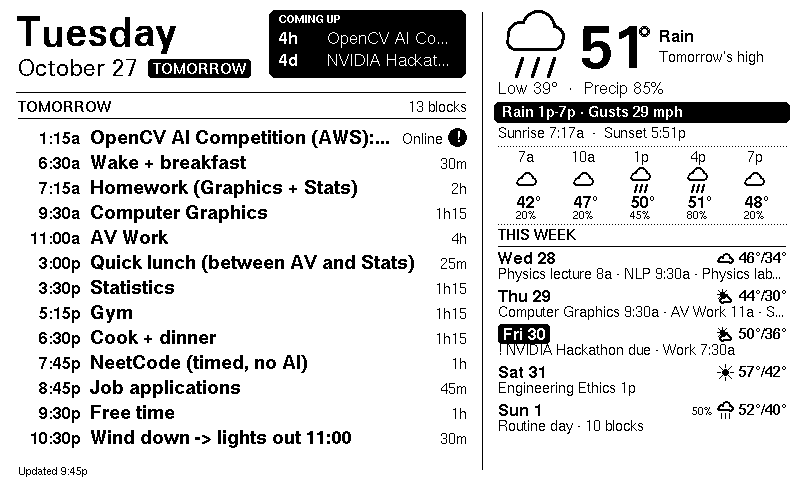
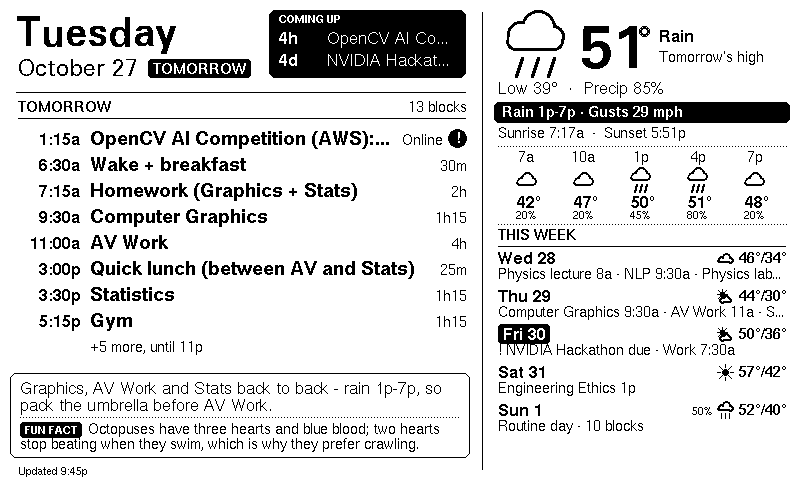
Add Gemini daily brief and fun fact to the dashboard
The Apps Script backend now asks Gemini for a short brief of the day
(tomorrow after 9:30 PM) and a daily fun fact, cached on the day's
contents so it only runs when the calendar or forecast changes. The
API key lives in Script properties (GEMINI_API_KEY); without it the
payload has no "ai" field and the display is unchanged.

The firmware draws both in a box at the bottom of the agenda column,
with word-wrapping, and the agenda shrinks to make room.

Tests mock Gemini, PropertiesService and CacheService; the preview
build enables U8G2_USE_LARGE_FONTS so the CJK fonts link on macOS.

diff --git a/tools/test_backend.js b/tools/test_backend.js
@@ -79,9 +79,26 @@ const events = fixture.events.map(([date, s, e, title, color, recurring, loc]) =
 });
 
 let weatherJson = fixture.weather;
+const props = { GEMINI_API_KEY: 'test-key' };
+const cacheStore = {};
+let geminiCalls = 0, lastPrompt = '';
+const geminiReply = {
+  summary: 'Graphics, AV Work and Stats back to back - rain 1p-7p, so pack the umbrella before AV Work.',
+  fact: 'Octopuses have three hearts and blue blood; two hearts stop beating when they swim, which is why they prefer crawling.',
+};
 const ctx = {
   console,
-  Utilities: { formatDate, parseDate },
+  Utilities: {
+    formatDate, parseDate,
+    DigestAlgorithm: { MD5: 'md5' }, Charset: { UTF_8: 'utf8' },
+    computeDigest: (alg, s) => [...require('crypto').createHash(alg).update(s, 'utf8').digest()].map(b => b > 127 ? b - 256 : b),
+  },
+  PropertiesService: {
+    getScriptProperties: () => ({ getProperty: k => (k in props ? props[k] : null), setProperty: (k, v) => { props[k] = v; } }),
+  },
+  CacheService: {
+    getScriptCache: () => ({ get: k => cacheStore[k] || null, put: (k, v) => { cacheStore[k] = v; } }),
+  },
   Session: { getScriptTimeZone: () => TZ },
   CalendarApp: {
     GuestStatus: { NO: 'NO', YES: 'YES', OWNER: 'OWNER' },
@@ -91,7 +108,16 @@ const ctx = {
     getCalendarById: () => null,
   },
   UrlFetchApp: {
-    fetch: () => ({ getResponseCode: () => 200, getContentText: () => JSON.stringify(weatherJson) }),
+    fetch: (url, opt) => {
+      if (url.includes('generativelanguage')) {
+        geminiCalls++;
+        assert.strictEqual(opt.headers['x-goog-api-key'], 'test-key');
+        lastPrompt = JSON.parse(opt.payload).contents[0].parts[0].text;
+        const body = { candidates: [{ content: { parts: [{ text: JSON.stringify(geminiReply) }] } }] };
+        return { getResponseCode: () => 200, getContentText: () => JSON.stringify(body) };
+      }
+      return { getResponseCode: () => 200, getContentText: () => JSON.stringify(weatherJson) };
+    },
   },
   ContentService: {
     MimeType: { JSON: 'json' },
@@ -119,6 +145,20 @@ const payload = api.buildPayload_(now);
 const json = JSON.stringify(payload);
 fs.writeFileSync(outPath, json);
 
+// AI brief: one Gemini call, then served from cache; fact sticks for the day
+assert.strictEqual(geminiCalls, 1);
+assert.ok(payload.ai && payload.ai.s && payload.ai.f, 'ai present');
+assert.ok(lastPrompt.includes('Schedule:'), 'prompt has schedule');
+const again = api.buildPayload_(now);
+assert.strictEqual(geminiCalls, 1, 'cached');
+assert.deepStrictEqual(again.ai, payload.ai);
+delete props.GEMINI_API_KEY;
+assert.strictEqual(api.buildPayload_(now).ai, null, 'no key -> no ai');
+props.GEMINI_API_KEY = 'test-key';
+assert.strictEqual(api.hm_(570), '9:30a');
+assert.strictEqual(api.hm_(780), '1p');
+assert.strictEqual(api.hm_(0), '12a');
+
 // sanity checks on the real-calendar fixture
 const d0 = payload.days[0];
 assert.strictEqual(payload.days.length, 7);
@@ -128,6 +168,8 @@ for (const d of payload.days) {
 }
 console.log(`now=${nowIso} bytes=${json.length} today=${d0.date} (${d0.dl}) events/day=${payload.days.map(d => d.ev.length).join(',')}`);
 console.log('keys:', JSON.stringify(payload.keys));
+console.log('ai:', JSON.stringify(payload.ai));
+console.log('prompt:\n' + lastPrompt);
 console.log('notes:', payload.days.map(d => `${d.dow}: ${d.w && d.w.n}`).join(' | '));
 console.log('week anchors:', payload.days.slice(1).map(d => d.dow + '=' + d.ev.filter(e => e.k > 0).map(e => e.t).concat(d.ad.map(a => '[' + a.t + ']')).join('; ')).join(' | '));
 const sun = payload.days.find(d => d.date === '2026-11-01');

diff --git a/firmware/eink_dashboard/render.cpp b/firmware/eink_dashboard/render.cpp
@@ -82,6 +82,41 @@ const char* fit(const char* s, int maxW, char* buf, size_t cap) {
   return buf;
 }
 
+// Word-wrap `s` into at most maxLines lines in the current font. The first line
+// may be narrower (room for a tag). The last line ends in "..." if text is left over.
+const int WRAP_CAP = 160;
+int wrap(const char* s, int firstW, int restW, int maxLines, char out[][WRAP_CAP]) {
+  int n = 0;
+  char tmp[WRAP_CAP];
+  while (*s && n < maxLines) {
+    while (*s == ' ') s++;
+    if (!*s) break;
+    int maxW = n == 0 ? firstW : restW;
+    size_t len = strlen(s);
+    size_t best = 0;                                               // longest prefix ending at a space
+    if (n < maxLines - 1 && !(len < WRAP_CAP && tw(s) <= maxW)) {
+      for (size_t i = 1; i <= len && i < WRAP_CAP; i++) {
+        if (s[i] != ' ' && s[i] != 0) continue;
+        memcpy(tmp, s, i);
+        tmp[i] = 0;
+        if (tw(tmp) > maxW) break;
+        best = i;
+      }
+    }
+    if (!best) {                       // last line, the rest fits, or one huge word: fit + "..."
+      snprintf(tmp, sizeof(tmp), "%s", s);
+      const char* f = fit(tmp, maxW, out[n], WRAP_CAP);
+      if (f != out[n]) snprintf(out[n], WRAP_CAP, "%s", f);
+      n++;
+      break;
+    }
+    memcpy(out[n], s, best);
+    out[n++][best] = 0;
+    s += best;
+  }
+  return n;
+}
+
 // "NVIDIA Hackathon: SUBMISSION DEADLINE" -> "NVIDIA Hackathon" (for tight spots)
 void keyShort(const char* in, char* out, size_t cap) {
   static const char* cut[] = {"submission", "deadline", " due"};
@@ -679,6 +714,38 @@ void drawWeek(const Dashboard& d, int fromIdx, int x0, int y0, int x1, int y1) {
   }
 }
 
+// Gemini's brief of the day + a fun fact, in a box anchored to y1 (its bottom).
+// Returns the box's top so the agenda can stop above it, or y1 if there's nothing to show.
+int drawBrief(const Dashboard& d, int x0, int x1, int y1) {
+  static char sum[2][WRAP_CAP], fact[3][WRAP_CAP];
+  const int PAD = 10, SUM_LH = 17, FACT_LH = 15;
+  int inner = x1 - x0 - 2 * PAD;
+
+  font(hasCJK(d.aiSummary) ? F_CJK : F_MED);
+  int ns = d.aiSummary[0] ? wrap(d.aiSummary, inner, inner, 2, sum) : 0;
+  font(F_TINY_B);
+  int tagW = tw("FUN FACT") + 10 + 6;
+  smallFont(d.aiFact);
+  int nf = d.aiFact[0] ? wrap(d.aiFact, inner - tagW, inner, ns ? 2 : 3, fact) : 0;
+  if (!ns && !nf) return y1;
+
+  int h = 8 + ns * SUM_LH + (ns && nf ? 8 : 0) + nf * FACT_LH + 5;
+  int top = y1 - h;
+  G->drawRoundRect(x0, top, x1 - x0, h, 6, INK);
+
+  int y = top + 8;
+  font(hasCJK(d.aiSummary) ? F_CJK : F_MED);
+  for (int i = 0; i < ns; i++, y += SUM_LH) txt(x0 + PAD, y + 13, sum[i]);
+  if (ns && nf) { dottedH(x0 + PAD, x1 - PAD, y + 2); y += 8; }
+  for (int i = 0; i < nf; i++, y += FACT_LH) {
+    int x = x0 + PAD;
+    if (i == 0) x += tag(x, y + 11, "FUN FACT", F_TINY_B) + 6;
+    smallFont(d.aiFact);
+    txt(x, y + 11, fact[i]);
+  }
+  return top;
+}
+
 }  // namespace
 
 /* ------------------------------ public ------------------------------ */
@@ -721,7 +788,9 @@ void renderDashboard(Adafruit_GFX& gfx, U8G2_FOR_ADAFRUIT_GFX& u8, const Dashboa
   // left: header + agenda
   drawHeader(d, mainDay, tomorrow, now);
   G->drawFastHLine(LCOL_X0 - 2, 92, LCOL_X1 - LCOL_X0 + 2, INK);
-  drawAgenda(mainDay, tomorrow ? -1 : now.minutes, tomorrow, LCOL_X0, 100, LCOL_X1, 458);
+  int briefTop = drawBrief(d, LCOL_X0 - 8, LCOL_X1 + 4, 458);
+  drawAgenda(mainDay, tomorrow ? -1 : now.minutes, tomorrow, LCOL_X0, 100, LCOL_X1,
+             briefTop < 458 ? briefTop - 6 : 458);
 
   // divider
   G->drawFastVLine(DIV_X, 12, 458, INK);

diff --git a/firmware/eink_dashboard/model.cpp b/firmware/eink_dashboard/model.cpp
@@ -109,6 +109,9 @@ bool parseDashboard(const char* json, size_t len, Dashboard& d) {
     copyUtf8(k.title, sizeof(k.title), jk["t"] | "");
   }
 
+  copyUtf8(d.aiSummary, sizeof(d.aiSummary), doc["ai"]["s"] | "");
+  copyUtf8(d.aiFact, sizeof(d.aiFact), doc["ai"]["f"] | "");
+
   if (d.nDays == 0) {
     copyUtf8(d.error, sizeof(d.error), "no days in payload");
     return false;

diff --git a/firmware/eink_dashboard/model.h b/firmware/eink_dashboard/model.h
@@ -78,6 +78,8 @@ struct Dashboard {
   Day days[MAX_DAYS];
   uint8_t nKeys;
   KeyItem keys[MAX_KEYS];
+  char aiSummary[200];          // Gemini's brief of the day ("" = no AI box)
+  char aiFact[240];             // fun fact of the day
   char error[64];
 };
 

diff --git a/README.md b/README.md
@@ -2,7 +2,7 @@
 
 Waveshare 7.5" e-Paper V2 (800×480) + Waveshare e-Paper ESP32 Driver Board.
 Shows today's time blocks, a countdown to deadlines, the weather that matters when you walk
-everywhere, and the week ahead — pulled from **jihbin.luo@gmail.com**. Read it instead of your phone.
+everywhere, the week ahead, and a Gemini-written brief of the day with a fun fact — pulled from **jihbin.luo@gmail.com**. Read it instead of your phone.
 
 ```
 ┌──────────────── left: TODAY ────────────────┬──────── right ─────────┐
@@ -15,6 +15,9 @@ everywhere, and the week ahead — pulled from **jihbin.luo@gmail.com**. Read it
 │ ▶  9:30a Computer Graphics          1h15     │ Wed 28   ☁ 46°/34°      │
 │   11:00a AV Work                       4h    │  Physics 8a · NLP 9:30a │
 │   ...                                        │ [Fri 30] ! NVIDIA due   │
+│ ╭ Graphics, AV Work, Stats back to back -  ╮ │                         │
+│ │ rain 1p-7p, pack the umbrella.           │ │                         │
+│ ╰ [FUN FACT] Octopuses have three hearts...╯ │                         │
 └──────────────────────────────────────────────┴─────────────────────────┘
 ```
 
@@ -22,7 +25,8 @@ everywhere, and the week ahead — pulled from **jihbin.luo@gmail.com**. Read it
 
 ```
 ESP32 wakes ──WiFi──► Apps Script web app (runs as you) ──► Google Calendar
-   │                          └──────────────────────────► Open-Meteo (weather, no key)
+   │                          ├──────────────────────────► Open-Meteo (weather, no key)
+   │                          └──────────────────────────► Gemini (brief + fun fact, cached)
    │◄──────── ~7 KB JSON ─────┘
    └─ draws, saves a copy to flash, deep-sleeps until the next :00 / :30
 ```
@@ -39,6 +43,10 @@ windows, deadline detection), so the firmware only draws.
 - **THIS WEEK** shows only anchors (classes = Blueberry color, Work / AV Work, one-off events,
   all-day events, deadlines) so the daily routine doesn't drown it. Days with a deadline get an inverted label.
 - Weather note bar only appears when it matters: rain/snow windows during 7a–10p, gusts ≥ 25 mph, feels-like ≤ 32°F.
+- **Brief + fun fact** box at the bottom of the agenda, written by Gemini: a one/two-sentence heads-up
+  about the day (tomorrow after 9:30 PM) and a fun fact that changes daily and doesn't repeat for 20 days.
+  Gemini only runs when the day's calendar/forecast changes (cached), so it's a few calls a day — free tier
+  is plenty. No API key, or Gemini down → the box disappears and the agenda gets the room back.
 - No WiFi? It redraws from the last good copy with an **Offline** tag and retries in 10 min.
 - Press **RST** on the board to force a refresh.
 - Spanish accents and GB2312 Chinese render; emoji in titles are stripped.
@@ -63,6 +71,10 @@ windows, deadline detection), so the firmware only draws.
 6. *Deploy → New deployment → Web app*: **Execute as: Me**, **Who has access: Anyone** → Deploy.
    Copy the `/exec` URL.
 7. Test in a browser: `<exec URL>?token=<your token>` should return JSON starting with `{"ok":true`.
+
+8. **Gemini (optional):** get a free API key at aistudio.google.com → *Get API key*. In Apps Script,
+   *Project Settings → Script properties → Add*: `GEMINI_API_KEY` = your key. Run `testAi` from the
+   editor to check the log shows a brief and a fact. (The key stays in Google; it's never on the board.)
 
 When you edit `Code.gs` later: *Deploy → Manage deployments → ✏ → Version: New version*, so the
 URL stays the same.
@@ -89,6 +101,8 @@ Compiled clean against esp32 core 3.3.12, GxEPD2 1.6.9, ArduinoJson 7.4.2:
 | Panel driver (if the image is faint/blotchy) | `config.h` → `GxEPD2_750_GDEY075T7` |
 | eduroam-style WiFi (username + password) | `config.h` → `WIFI_ENTERPRISE 1` |
 | Which calendars, °C, location, deadline keywords, week-view anchor colors | `Code.gs` → `CONFIG` |
+| Gemini model, how many past facts to avoid repeating | `Code.gs` → `CONFIG.AI_MODEL`, `AI_FACT_HISTORY` |
+| Tone/length of the brief and what kind of facts | `Code.gs` → prompt in `buildAi_` |
 | Drop the Chinese font (sketch then fits the default partition) | add `#define DASH_CJK 0` at the top of `render.cpp` |
 
 **Going home to Costa Rica for break:** in `Code.gs` set `TZ: 'America/Costa_Rica'`,
